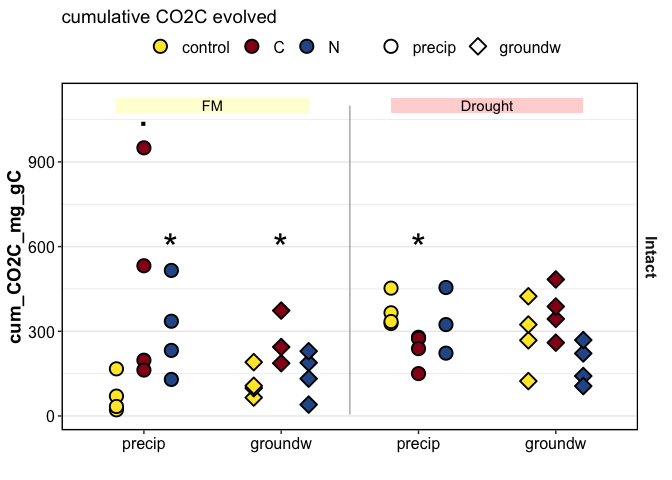
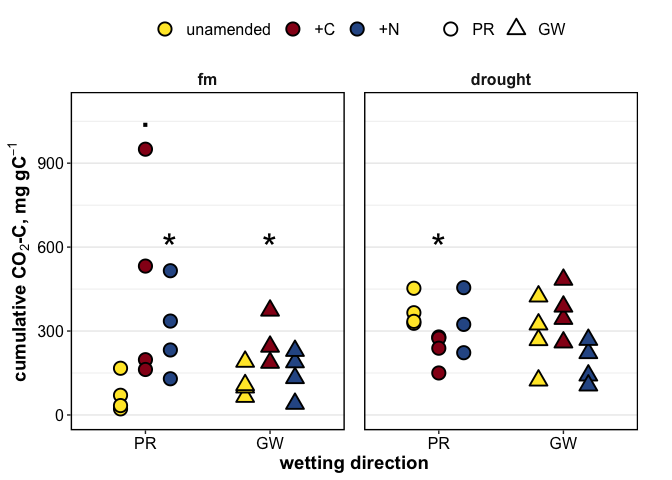
update flux functions and graphs. combined respiration plots, effect of hommogenization

diff --git a/reports/flux_drake_md_report.md b/reports/flux_drake_md_report.md
@@ -80,7 +80,9 @@ For intact cores,
 
 ## graphs
 
-![](markdown-figs/flux/cum_flux_boxplot-1.png)<!-- -->
+![](markdown-figs/flux/cum_flux_boxplot_homo-1.png)<!-- -->
+
+![](markdown-figs/flux/flux_combined-1.png)<!-- -->
 
   - drought increased respiration only in control soils
       - microbes limited by substrate as well as N, which were released
@@ -98,9 +100,7 @@ For intact cores,
         were more limited
       - N??
 
-<!-- end list -->
-
-    #> [1] NA
+![](markdown-figs/flux/cum_flux_homo-1.png)<!-- -->
 
     #> $gg_flux_ts
 
@@ -119,16 +119,16 @@ For intact cores,
 
 cumulative CO2-C, mgC/g C
 
-| Homogenization | Moisture | Wetting |     control     |        C        |       N        |
-| :------------: | :------: | :-----: | :-------------: | :-------------: | :------------: |
-|     Intact     |    fm    | precip  |  73.18 ± 32.93  | 460.58 ± 183.17 | 303.24 ± 82.36 |
-|     Intact     |    fm    | groundw | 115.36 ± 26.67  | 268.21 ± 47.75  | 147.65 ± 40.97 |
-|     Intact     | drought  | precip  | 370.13 ± 28.76  |  235.6 ± 29.9   |  333.8 ± 58.3  |
-|     Intact     | drought  | groundw | 284.85 ± 62.71  | 368.72 ± 46.64  | 184.42 ± 37.1  |
-|  Homogenized   |    fm    | precip  | 246.75 ± 60.14  |  181.4 ± 61.43  | 150.26 ± 16.35 |
-|  Homogenized   |    fm    | groundw | 229.07 ± 99.94  | 434.82 ± 56.78  | 247.68 ± 98.32 |
-|  Homogenized   | drought  | precip  | 330.66 ± 62.16  |  47.29 ± 23.88  | 96.38 ± 32.15  |
-|  Homogenized   | drought  | groundw | 360.16 ± 103.62 | 311.76 ± 78.33  | 257.53 ± 51.06 |
+| Homogenization | Moisture | Wetting | control         | C               | N              |
+| :------------- | :------- | :------ | :-------------- | :-------------- | :------------- |
+| Intact         | fm       | precip  | 73.18 ± 32.93   | 460.58 ± 183.17 | 303.24 ± 82.36 |
+| Intact         | fm       | groundw | 115.36 ± 26.67  | 268.21 ± 47.75  | 147.65 ± 40.97 |
+| Intact         | drought  | precip  | 370.13 ± 28.76  | 235.6 ± 29.9    | 333.8 ± 58.3   |
+| Intact         | drought  | groundw | 284.85 ± 62.71  | 368.72 ± 46.64  | 184.42 ± 37.1  |
+| Homogenized    | fm       | precip  | 246.75 ± 60.14  | 181.4 ± 61.43   | 150.26 ± 16.35 |
+| Homogenized    | fm       | groundw | 229.07 ± 99.94  | 434.82 ± 56.78  | 247.68 ± 98.32 |
+| Homogenized    | drought  | precip  | 330.66 ± 62.16  | 47.29 ± 23.88   | 96.38 ± 32.15  |
+| Homogenized    | drought  | groundw | 360.16 ± 103.62 | 311.76 ± 78.33  | 257.53 ± 51.06 |
 
 -----
 
@@ -138,11 +138,11 @@ cumulative CO2-C, mgC/g C
 
 <summary>click to expand</summary>
 
-Date run: 2020-10-21
+Date run: 2020-12-08
 
     #> R version 4.0.2 (2020-06-22)
     #> Platform: x86_64-apple-darwin17.0 (64-bit)
-    #> Running under: macOS Catalina 10.15.6
+    #> Running under: macOS Catalina 10.15.7
     #> 
     #> Matrix products: default
     #> BLAS:   /System/Library/Frameworks/Accelerate.framework/Versions/A/Frameworks/vecLib.framework/Versions/A/libBLAS.dylib
@@ -155,32 +155,26 @@ Date run: 2020-10-21
     #> [1] stats     graphics  grDevices utils     datasets  methods   base     
     #> 
     #> other attached packages:
-    #>  [1] lme4_1.1-23     Matrix_1.2-18   drake_7.12.4    ggbiplot_0.55  
-    #>  [5] PNWColors_0.1.0 forcats_0.5.0   stringr_1.4.0   dplyr_1.0.1    
-    #>  [9] purrr_0.3.4     readr_1.3.1     tidyr_1.1.1     tibble_3.0.3   
+    #>  [1] lme4_1.1-23     Matrix_1.2-18   drake_7.12.4    ggbiplot_0.55   PNWColors_0.1.0 forcats_0.5.0  
+    #>  [7] stringr_1.4.0   dplyr_1.0.1     purrr_0.3.4     readr_1.3.1     tidyr_1.1.1     tibble_3.0.3   
     #> [13] ggplot2_3.3.2   tidyverse_1.3.0
     #> 
     #> loaded via a namespace (and not attached):
-    #>  [1] nlme_3.1-148      fs_1.5.0          lubridate_1.7.9   filelock_1.0.2   
-    #>  [5] progress_1.2.2    httr_1.4.2        tools_4.0.2       backports_1.1.8  
-    #>  [9] R6_2.4.1          mgcv_1.8-31       DBI_1.1.0         colorspace_1.4-1 
-    #> [13] withr_2.2.0       tidyselect_1.1.0  prettyunits_1.1.1 curl_4.3         
-    #> [17] compiler_4.0.2    cli_2.0.2         rvest_0.3.6       xml2_1.3.2       
-    #> [21] labeling_0.3      scales_1.1.1      digest_0.6.25     foreign_0.8-80   
-    #> [25] txtq_0.2.3        minqa_1.2.4       rmarkdown_2.3     rio_0.5.16       
-    #> [29] pkgconfig_2.0.3   htmltools_0.5.0   highr_0.8         dbplyr_1.4.4     
-    #> [33] rlang_0.4.7       readxl_1.3.1      rstudioapi_0.11   farver_2.0.3     
-    #> [37] generics_0.0.2    jsonlite_1.7.0    zip_2.1.0         car_3.0-9        
-    #> [41] magrittr_1.5      Rcpp_1.0.5        munsell_0.5.0     fansi_0.4.1      
-    #> [45] abind_1.4-5       lifecycle_0.2.0   stringi_1.4.6     yaml_2.2.1       
-    #> [49] carData_3.0-4     MASS_7.3-51.6     storr_1.2.1       plyr_1.8.6       
-    #> [53] grid_4.0.2        blob_1.2.1        parallel_4.0.2    crayon_1.3.4     
-    #> [57] lattice_0.20-41   haven_2.3.1       splines_4.0.2     hms_0.5.3        
-    #> [61] knitr_1.29        pillar_1.4.6      igraph_1.2.5      boot_1.3-25      
-    #> [65] base64url_1.4     reprex_0.3.0      glue_1.4.1        packrat_0.5.0    
-    #> [69] evaluate_0.14     data.table_1.13.0 modelr_0.1.8      vctrs_0.3.2      
-    #> [73] nloptr_1.2.2.2    cellranger_1.1.0  gtable_0.3.0      assertthat_0.2.1 
-    #> [77] xfun_0.16         openxlsx_4.1.5    broom_0.7.0       statmod_1.4.34   
-    #> [81] ellipsis_0.3.1
+    #>  [1] nlme_3.1-148      fs_1.5.0          lubridate_1.7.9   filelock_1.0.2    progress_1.2.2    httr_1.4.2       
+    #>  [7] tools_4.0.2       backports_1.1.8   R6_2.4.1          mgcv_1.8-31       DBI_1.1.0         colorspace_1.4-1 
+    #> [13] withr_2.2.0       Exact_2.1         tidyselect_1.1.0  prettyunits_1.1.1 curl_4.3          compiler_4.0.2   
+    #> [19] cli_2.0.2         rvest_0.3.6       expm_0.999-5      xml2_1.3.2        labeling_0.3      scales_1.1.1     
+    #> [25] mvtnorm_1.1-1     digest_0.6.25     minqa_1.2.4       foreign_0.8-80    txtq_0.2.3        rmarkdown_2.3    
+    #> [31] rio_0.5.16        pkgconfig_2.0.3   htmltools_0.5.0   highr_0.8         dbplyr_1.4.4      rlang_0.4.7      
+    #> [37] readxl_1.3.1      rstudioapi_0.11   farver_2.0.3      generics_0.0.2    jsonlite_1.7.0    zip_2.1.0        
+    #> [43] car_3.0-9         magrittr_1.5      DescTools_0.99.38 Rcpp_1.0.5        munsell_0.5.0     fansi_0.4.1      
+    #> [49] abind_1.4-5       lifecycle_0.2.0   stringi_1.4.6     yaml_2.2.1        carData_3.0-4     rootSolve_1.8.2.1
+    #> [55] MASS_7.3-51.6     storr_1.2.1       plyr_1.8.6        grid_4.0.2        blob_1.2.1        parallel_4.0.2   
+    #> [61] lmom_2.8          crayon_1.3.4      lattice_0.20-41   cowplot_1.0.0     haven_2.3.1       splines_4.0.2    
+    #> [67] hms_0.5.3         knitr_1.29        pillar_1.4.6      igraph_1.2.5      ggpubr_0.4.0      gld_2.6.2        
+    #> [73] boot_1.3-25       ggsignif_0.6.0    base64url_1.4     reprex_0.3.0      glue_1.4.1        packrat_0.5.0    
+    #> [79] evaluate_0.14     data.table_1.13.0 modelr_0.1.8      nloptr_1.2.2.2    vctrs_0.3.2       cellranger_1.1.0 
+    #> [85] gtable_0.3.0      assertthat_0.2.1  xfun_0.16         openxlsx_4.1.5    broom_0.7.0       e1071_1.7-3      
+    #> [91] rstatix_0.6.0     class_7.3-17      statmod_1.4.34    ellipsis_0.3.1
 
 </details>
